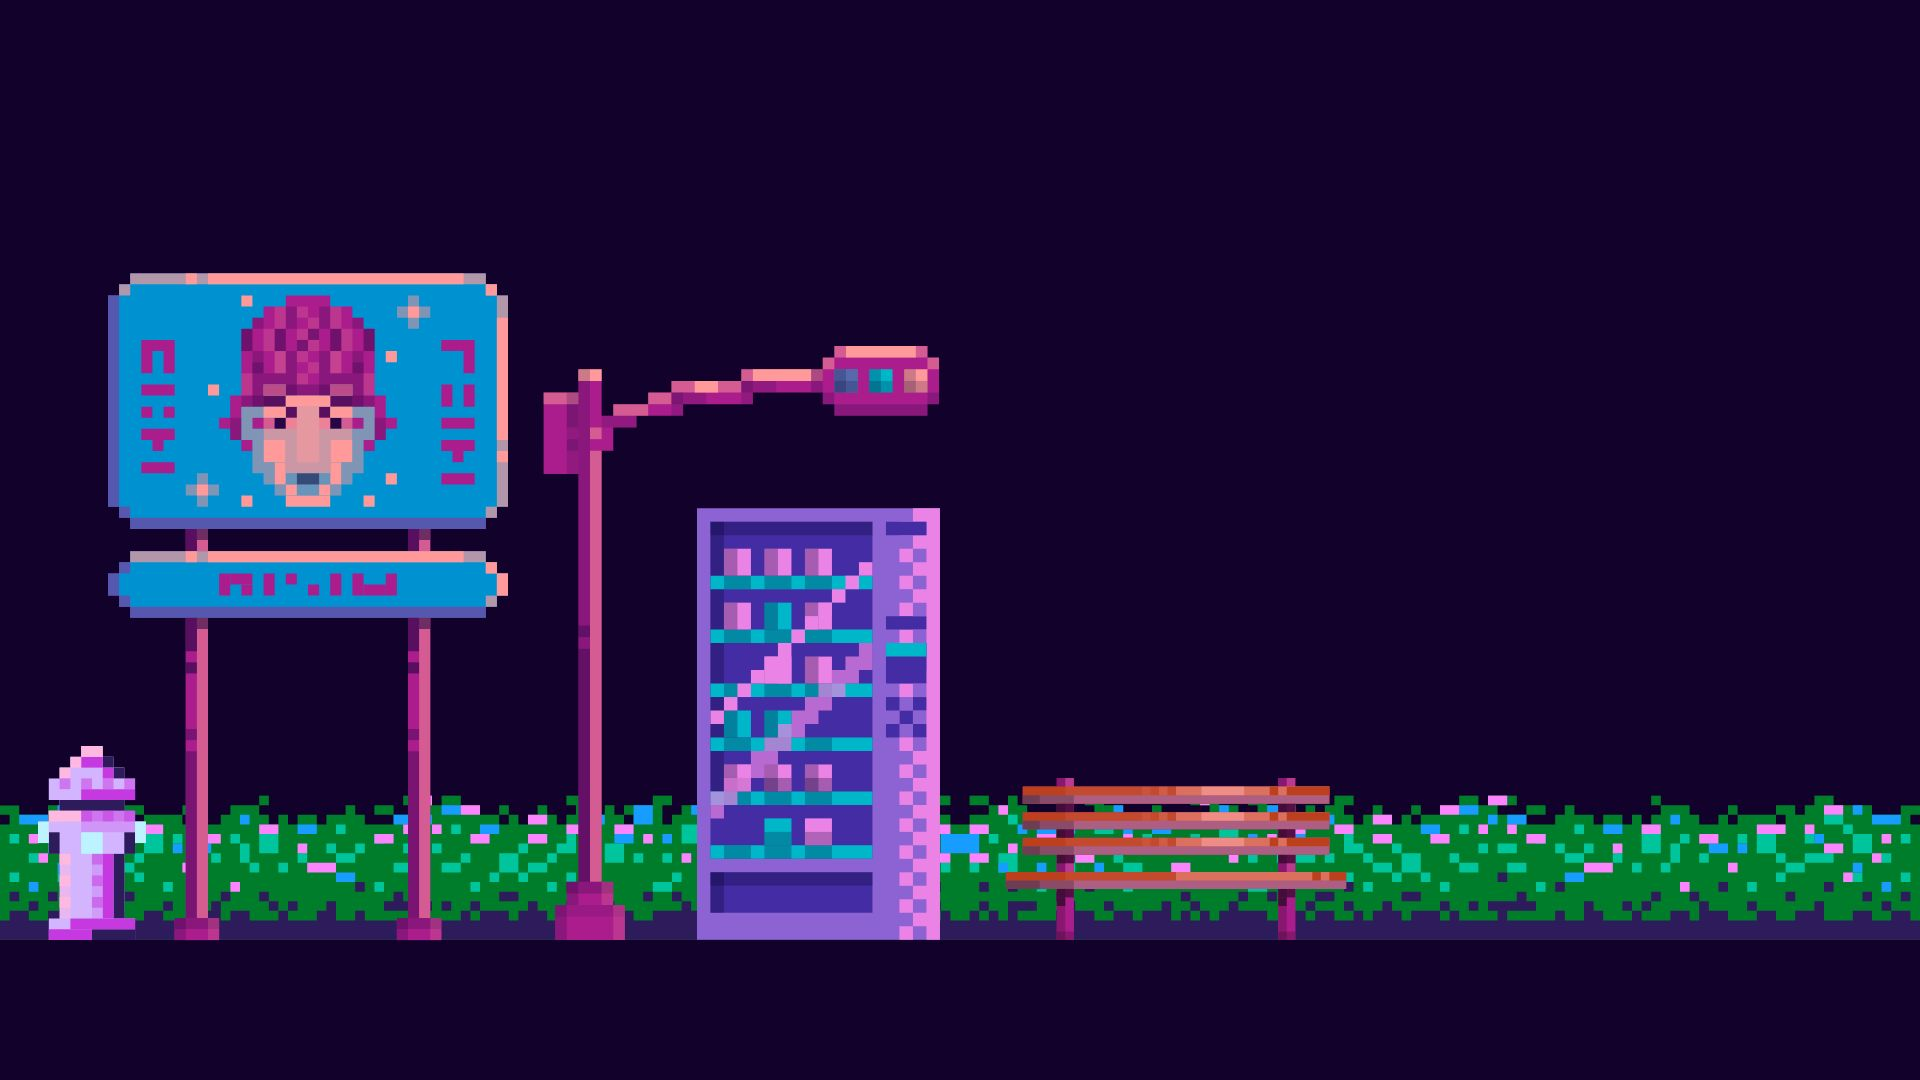
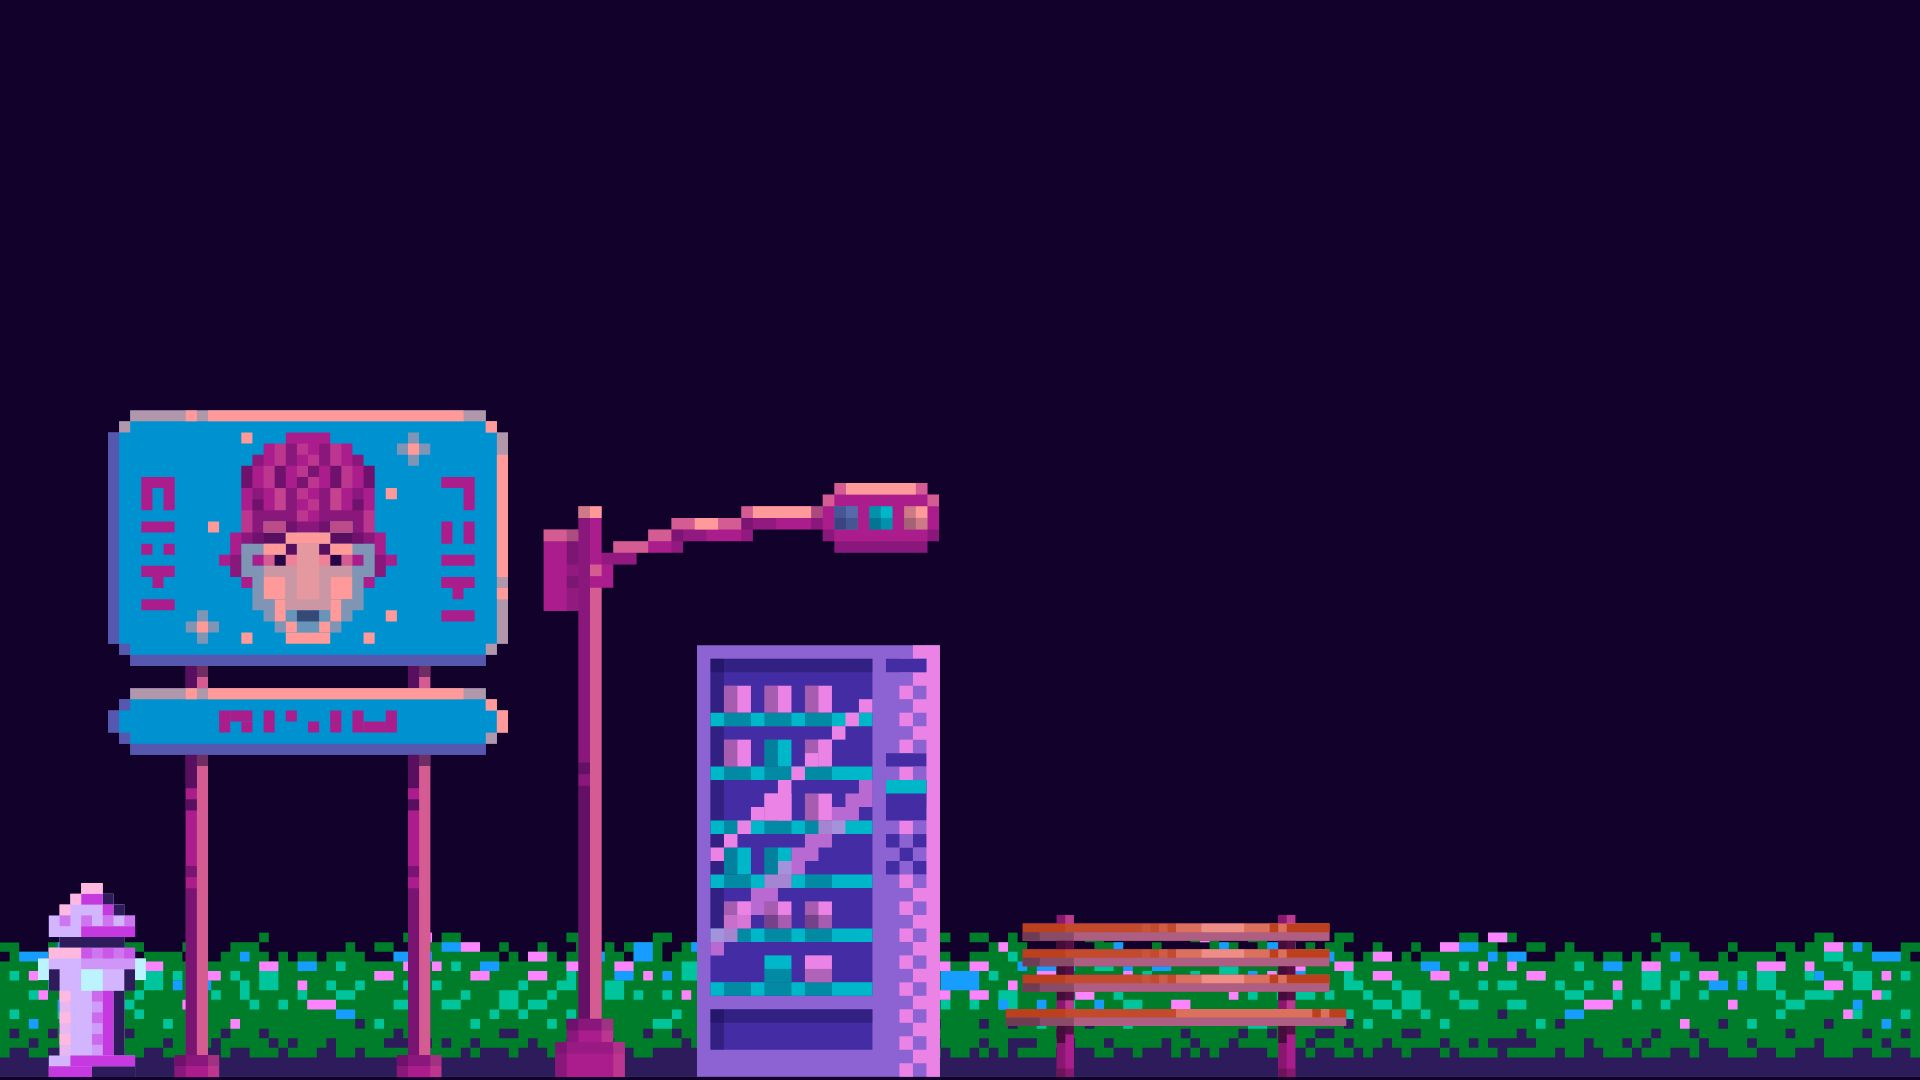
add image

diff --git a/src/index.html b/src/index.html
@@ -6,21 +6,43 @@
     <title>Project Web</title>
     <style>
       body {
-        background-image: url("/src/image/bg.jpg");
-        background-size: 100% auto;
+        height: 100vh;
+        width: 100%;
+        margin: 0;
+        display: flex;
+        justify-content: center;
+        align-items: center;
       }
-      .class{
-        margin-top: 295.5px;
-        margin-left: 109px;
+      .background-container {
+        width: 100%; /* 16:9 aspect ratio */
+        height: 100%; /* 16:9 aspect ratio */
+        background-image: url("/src/image/bg.jpg");
+        background-size: cover;
+        background-position: center;
+        position: relative;
+      }
+      .content {
+        position: absolute;
+        top: 50%;
+        left: 50%;
+        transform: translate(-50%, -50%);
         width: 380px;
         height: 210.5px;
-        background-color:#0091D1;
+        background-color: #0091D1;
+      }
+      .content h1 {
+        margin: 0;
+        color: white;
+        text-align: center;
+        line-height: 210.5px; /* Center text vertically */
       }
     </style>
   </head>
   <body>
-      <div class="class">
-      <h1>Hllo</h1>
+    <div class="background-container">
+      <div class="content">
+        <h1>Hello</h1>
       </div>
+    </div>
   </body>
 </html>
